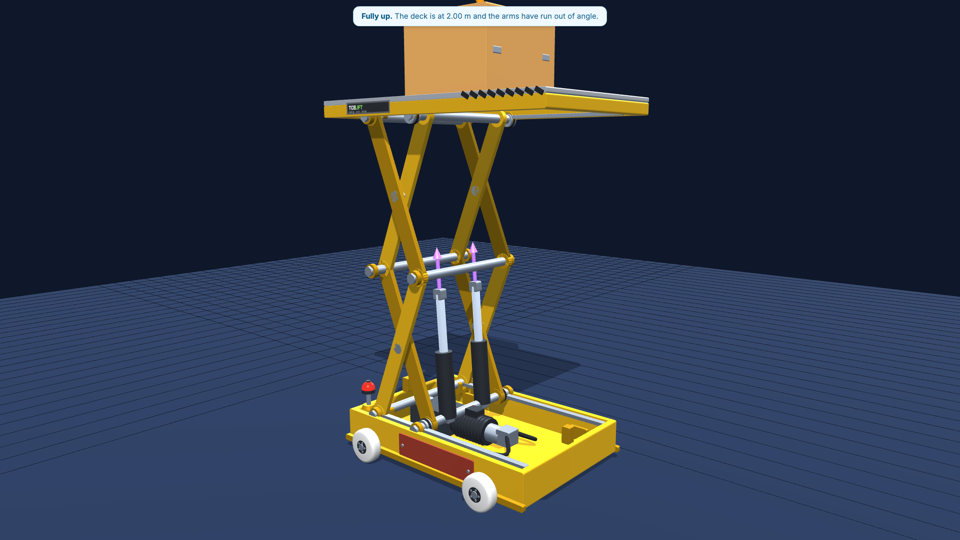
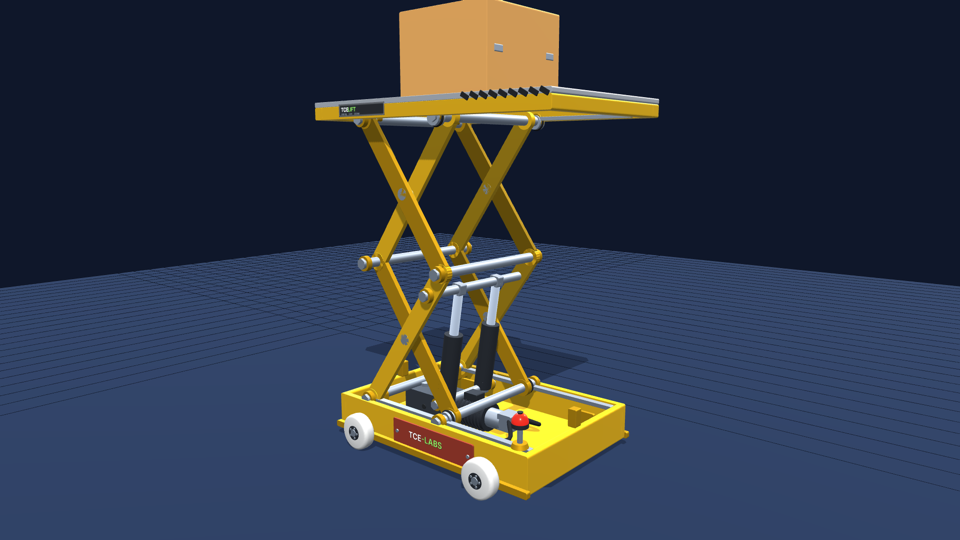
updated

Changed region(s): [[0.0, 0.0, 1.0, 0.9481], [0.1875, 0.5333, 0.2188, 0.563]]

diff --git a/scissorlift/app.js b/scissorlift/app.js
@@ -11,7 +11,10 @@ const G_ACC = 9.81;
 const ARM_L = 900;
 const STAGES = 2;
 const TH_MIN = 8 * Math.PI / 180;
-const TH_MAX = 68 * Math.PI / 180;
+// 54.752 deg puts the deck top at exactly 1.80 m. Any higher and the
+// machine is taller than its own wheelbase is long, which looks - and
+// is - top heavy.
+const TH_MAX = 54.752 * Math.PI / 180;
 
 // Where the rams are bolted on. RAM_P is measured along the base from
 // the fixed pivot, RAM_Q along the arm from the same pivot - so the ram,
@@ -32,8 +35,12 @@ const P = Object.assign({}, DEFAULTS);
 const state = {
     th: TH_MIN,                        // the one variable the machine has
     cmd: 0,                            // -1 lowering, 0 holding, +1 raising
-    crate: true, forces: true, sound: true, mesh: false, turntable: false,
+    // The arrows are a teaching overlay, not part of the machine, so
+    // they wait to be asked for.
+    crate: true, forces: false, sound: true, mesh: false, turntable: false,
     warn: 0,                           // seconds of warning still to sound
+    motion: 0,                         // 0..1, how much of full flow is actually moving
+    lastDir: 0,                        // which way it was going, for the run-down
     viewMode: 'blueprint'
 };
 
@@ -83,6 +90,14 @@ const deckSpeed = () => ramSpeed() * ratio(state.th);       // mm/s
 const LOWER_SPEED = 26;                                     // mm/s of ram, on the way down
 // How long the warning sounds before anything is allowed to move.
 const WARN_TIME = 1.3;
+// Nothing mechanical steps from still to full flow and back again. The
+// valve is eased open and shut and the motor takes a moment either way,
+// so the lift settles onto its stops instead of arriving at them - which
+// on a real machine is the difference between stopping and shock-loading
+// the linkage with a tonne on the deck.
+const RAMP_TIME = 0.5;                // seconds to spin up, and to run down
+const EASE_RAM = 30;                  // mm of ram travel eased at each end
+const EASE_FLOOR = 0.2;               // never quite zero, or it would never arrive
 
 const hydPower = () => pressure() * 1e5 * (P.flow / 60000); // W
 const motorPower = () => hydPower() / EFF;                  // W
@@ -193,7 +208,7 @@ function badgeTexture() {
     g.fillText('LIFT', 140, 58);
     g.fillStyle = '#aebdcc';
     g.font = '22px Inter, Helvetica, Arial, sans-serif';
-    g.fillText('2000 kg  \u00b7  2.0 m  \u00b7  250 bar', 34, 98);
+    g.fillText('2000 kg  \u00b7  1.8 m  \u00b7  250 bar', 34, 98);
     badgeTex = new THREE.CanvasTexture(c);
     return badgeTex;
 }
@@ -208,15 +223,11 @@ function logoTexture() {
     g.clearRect(0, 0, 720, 152);
     g.textBaseline = 'middle';
     g.font = 'bold 96px Inter, Helvetica, Arial, sans-serif';
-    g.fillStyle = 'rgba(24,16,4,0.5)';
-    g.fillText('TCE', 30, 82);
-    g.fillStyle = '#16181c';
-    g.fillText('TCE', 26, 78);
-    const w = g.measureText('TCE').width;
-    g.fillStyle = 'rgba(24,16,4,0.5)';
-    g.fillText('-LABS', 30 + w, 82);
-    g.fillStyle = '#7ed957';
-    g.fillText('-LABS', 26 + w, 78);
+    g.fillStyle = 'rgba(0,0,0,0.45)';
+    g.fillText('TCE-LAB', 30, 82);
+    g.fillStyle = '#b6b7b8';
+    g.fillText('TCE-LAB', 26, 78);
+    
     logoTex = new THREE.CanvasTexture(c);
     logoTex.anisotropy = 8;
     return logoTex;
@@ -381,8 +392,10 @@ function buildBase() {
             g.add(screw);
         });
 
-        const logo = new THREE.Mesh(new THREE.PlaneGeometry(360, 76), MAT.logo);
-        logo.position.set(-390, yMid + 6, s2 * (BASE_Z + 3));
+        // The name, on the panel and dead centre of the side - the one
+        // stretch of the machine that no wheel and no arm ever crosses.
+        const logo = new THREE.Mesh(new THREE.PlaneGeometry(340, 72), MAT.logo);
+        logo.position.set(60, yMid + 2, s2 * (BASE_Z + 8));
         logo.rotation.y = s2 > 0 ? 0 : Math.PI;
         g.add(logo);
 
@@ -869,7 +882,7 @@ function update3D() {
     // dark the moment it is holding. Two flashes a second, which is what
     // these actually run at.
     if (beaconLamp) {
-        const live = state.cmd !== 0 || state.warn > 0;
+        const live = state.cmd !== 0 || state.warn > 0 || state.motion > 0.05;
         const on = live && Math.sin(performance.now() / 1000 * Math.PI * 4) > 0;
         beaconLamp.material.emissiveIntensity = on ? 2.4 : 0.08;
         beaconLight.intensity = on ? 2.2 : 0;
@@ -943,41 +956,12 @@ function updateStats() {
     $('stat-h').textContent = heightM().toFixed(2);
     $('stat-f').textContent = (ramForce() / 1000).toFixed(0);
     $('stat-p').textContent = pressure().toFixed(0);
-    $('stat-v').textContent = (state.cmd > 0 && !stalled() ? deckSpeed()
-                             : state.cmd < 0 ? -LOWER_SPEED * ratio(state.th) : 0).toFixed(0);
-    $('stat-w').textContent = (state.cmd > 0 && !stalled() ? motorPower() / 1000 : 0).toFixed(1);
-    paintAlarm();
-}
-
-function paintAlarm() {
-    const el = $('alarm');
-    let title = '', body = '', cls = '';
-    if (tipping()) {
-        title = 'Going over.';
-        body = 'The load and the machine together now balance ' + Math.abs(cgX()).toFixed(0) +
-               ' mm off centre, and the wheels are only ' + WHEEL_X + ' mm out. Bring the load in.';
-        cls = 'bg-rose-50 border-rose-200 text-rose-800';
-    } else if (state.cmd > 0 && stalled()) {
-        title = 'Relief valve blowing off.';
-        body = 'It needs ' + pressure().toFixed(0) + ' bar and the valve opens at ' + P.relief +
-               '. The oil is going straight back to tank and the lift is not moving. It is worst ' +
-               'down here - try a wider bore, or less load.';
-        cls = 'bg-rose-50 border-rose-200 text-rose-800';
-    } else if (state.th >= TH_MAX - 1e-4) {
-        title = 'Fully up.';
-        body = 'The deck is at ' + heightM().toFixed(2) + ' m and the arms have run out of angle.';
-        cls = 'bg-sky-50 border-sky-200 text-sky-800';
-    } else if (state.th <= TH_MIN + 1e-4 && state.cmd === 0) {
-        title = 'Down and stowed.';
-        body = 'The arms are nearly flat, which is where the rams have the least to work with. ' +
-               'Watch the pressure as you start it up.';
-        cls = 'bg-slate-50 border-slate-200 text-slate-700';
-    }
-    if (!title) { el.classList.add('hidden'); return; }
-    el.className = 'absolute top-3 left-1/2 -translate-x-1/2 z-10 px-4 py-2 rounded-xl border shadow-md ' +
-        'text-[calc(13px*var(--fs))] text-center max-w-lg ' + cls;
-    $('alarm-title').textContent = title;
-    $('alarm-body').textContent = body;
+    const dir = state.cmd || (state.motion > 0 ? state.lastDir : 0);
+    $('stat-v').textContent = ((dir > 0 ? deckSpeed()
+                              : dir < 0 ? -LOWER_SPEED * ratio(state.th) : 0)
+                              * state.motion).toFixed(0);
+    $('stat-w').textContent = (state.cmd > 0 && stalled() ? motorPower() / 1000
+                              : dir > 0 ? motorPower() * state.motion / 1000 : 0).toFixed(1);
 }
 
 // =============================================================
@@ -1008,6 +992,7 @@ function oneShot(el, vol) {
 // Sounded the moment a direction is asked for, before any of it moves.
 function warnAndGo(dir) {
     state.cmd = dir;
+    state.lastDir = dir;
     state.warn = WARN_TIME;
     loopOff(aRaise); loopOff(aLower);
     oneShot(aBeep, 0.7);
@@ -1015,12 +1000,16 @@ function warnAndGo(dir) {
 
 function soundUpdate() {
     if (!aRaise) return;
-    const moving = state.sound && state.warn <= 0;
-    if (moving && state.cmd > 0 && !stalled()) {
-        // The note rides with the pressure the load is asking for.
-        loopOn(aRaise, 0.30 + 0.25 * clamp(pressure() / P.relief, 0, 1), 1);
+    // The sound follows state.motion, so it winds up with the pump and
+    // runs down with it, instead of being cut off at the stop.
+    const m = state.sound && state.warn <= 0 ? state.motion : 0;
+    const dir = state.cmd || state.lastDir;
+    const rate = 0.78 + 0.22 * m;
+    if (m > 0.02 && dir > 0) {
+        // and the note rides with the pressure the load is asking for
+        loopOn(aRaise, (0.30 + 0.25 * clamp(pressure() / P.relief, 0, 1)) * m, rate);
     } else loopOff(aRaise);
-    if (moving && state.cmd < 0) loopOn(aLower, 0.32, 1);
+    if (m > 0.02 && dir < 0) loopOn(aLower, 0.34 * m, rate);
     else loopOff(aLower);
 }
 function soundStop() {
@@ -1030,25 +1019,43 @@ function soundStop() {
 // =============================================================
 //  Loop
 // =============================================================
+// How much of full flow to allow, given how near the ram is to the end
+// of its own travel. Measured on the RAM rather than on the angle,
+// because the ram is the part moving at a steady rate - so the run-in
+// takes the same couple of seconds whether it is easing onto the top
+// stop or the bottom one, even though the deck speed differs tenfold.
+function endEase(dir) {
+    const sr = ramLen(state.th);
+    const room = dir > 0 ? (ramLen(TH_MAX) - sr) : (sr - ramLen(TH_MIN));
+    return EASE_FLOOR + (1 - EASE_FLOOR) * ease(room / EASE_RAM);
+}
+
 function step(dt) {
     // The warning runs first and the machine waits for it. This is the
     // order a real one does it in, and it is not decoration: people
     // stand next to these things.
-    if (state.warn > 0) { state.warn = Math.max(0, state.warn - dt); return; }
-    if (state.cmd > 0) {
-        // Past the relief setting the valve opens and the oil goes round
-        // in a circle. The motor works just as hard and nothing moves.
-        if (stalled()) return;
-        const dth = deckSpeed() * dt / (STAGES * ARM_L * Math.cos(state.th));
-        state.th = Math.min(TH_MAX, state.th + dth);
-        if (state.th >= TH_MAX) state.cmd = 0;
-    } else if (state.cmd < 0) {
-        // Coming down needs no pump at all: the load does the work and a
-        // valve only decides how fast it is allowed to give it back.
-        const dth = LOWER_SPEED * ratio(state.th) * dt / (STAGES * ARM_L * Math.cos(state.th));
-        state.th = Math.max(TH_MIN, state.th - dth);
-        if (state.th <= TH_MIN) state.cmd = 0;
+    if (state.warn > 0) {
+        state.warn = Math.max(0, state.warn - dt);
+        state.motion = 0;
+        return;
     }
+
+    // Past the relief setting the valve opens and the oil goes round in a
+    // circle. The motor works just as hard and nothing moves.
+    const blocked = state.cmd > 0 && stalled();
+    const want = (state.cmd !== 0 && !blocked) ? endEase(state.cmd) : 0;
+    state.motion += (want - state.motion) * Math.min(1, dt / RAMP_TIME);
+    if (state.motion < 0.001) state.motion = 0;
+    if (blocked || state.cmd === 0) return;
+
+    // Coming down needs no pump at all: the load does the work, and the
+    // valve only decides how fast it is allowed to give it back.
+    const dth = (state.cmd > 0 ? deckSpeed() : -LOWER_SPEED * ratio(state.th))
+                * state.motion * dt / (STAGES * ARM_L * Math.cos(state.th));
+    state.th = clamp(state.th + dth, TH_MIN, TH_MAX);
+    // The command drops out at the stop, and the motor runs itself down
+    // over the next half second rather than being switched off.
+    if (state.th >= TH_MAX || state.th <= TH_MIN) state.cmd = 0;
 }
 
 const DT = 1 / 120;
@@ -1071,6 +1078,7 @@ function frame(now) {
 function reset() {
     Object.assign(P, DEFAULTS);
     state.th = TH_MIN; state.cmd = 0; state.warn = 0;
+    state.motion = 0; state.lastDir = 0;
     soundStop();
     ['load', 'offset', 'bore', 'flow', 'relief'].forEach(k => {
         $('s-' + k).value = P[k];

diff --git a/scissorlift/index.html b/scissorlift/index.html
@@ -73,11 +73,6 @@
                     <p class="text-[calc(14px*var(--fs))] text-slate-600 max-w-md">This browser could not start 3D graphics (WebGL), so the lift cannot be drawn. The readings and controls below still work.</p>
                 </div>
 
-                <!-- Said out loud when the lift will not move, because a
-                     machine standing still looks the same whatever the reason. -->
-                <div id="alarm" class="hidden absolute top-3 left-1/2 -translate-x-1/2 z-10 px-4 py-2 rounded-xl border shadow-md text-[calc(13px*var(--fs))] text-center max-w-lg">
-                    <b id="alarm-title"></b> <span id="alarm-body" class="opacity-90"></span>
-                </div>
             </div>
 
             <div class="p-2 bg-slate-50/90 border-t border-slate-200 flex flex-col xl:flex-row gap-2">
@@ -158,8 +153,8 @@
                         <label id="chip-crate" class="flex items-center gap-1.5 px-2.5 py-2 rounded-full border border-slate-200 bg-white hover:bg-slate-50 text-slate-900 cursor-pointer transition text-[calc(13px*var(--fs))] font-medium select-none" title="Draw the load on the deck.">
                             <input id="chk-crate" type="checkbox" class="accent-slate-900" checked><span>Load</span>
                         </label>
-                        <label id="chip-forces" class="flex items-center gap-1.5 px-2.5 py-2 rounded-full border border-slate-200 bg-white hover:bg-slate-50 text-slate-900 cursor-pointer transition text-[calc(13px*var(--fs))] font-medium select-none" title="Draw the ram force and the weight as arrows, to the same scale.">
-                            <input id="chk-forces" type="checkbox" class="accent-slate-900" checked><span>Forces</span>
+                        <label id="chip-forces" class="flex items-center gap-1.5 px-2.5 py-2 rounded-full border border-slate-200 bg-white hover:bg-slate-50 text-slate-900 cursor-pointer transition text-[calc(13px*var(--fs))] font-medium select-none" title="Draw the ram push and the load weight as arrows. Off to begin with, since they are a teaching overlay and not part of the machine.">
+                            <input id="chk-forces" type="checkbox" class="accent-slate-900"><span>Forces</span>
                         </label>
                         <label id="chip-sound" class="flex items-center gap-1.5 px-2.5 py-2 rounded-full border border-slate-200 bg-white hover:bg-slate-50 text-slate-900 cursor-pointer transition text-[calc(13px*var(--fs))] font-medium select-none" title="The warning before it moves, then the pump on the way up and the oil on the way down.">
                             <input id="chk-sound" type="checkbox" class="accent-slate-900" checked><span>Sound</span>
@@ -211,7 +206,7 @@
                     <h3 class="font-bold text-slate-800 mb-1">2. The scissor: a mechanical advantage that keeps changing</h3>
                     <ul class="list-disc pl-5 space-y-1">
                         <li>Here is the thing that makes a scissor lift worth studying. Its mechanical advantage is not a number you can look up &mdash; it <b>changes all the way up the lift</b>, and it changes enormously.</li>
-                        <li>Watch the ram force as you raise it from the bottom. Near the floor the arms are almost flat, and holding the deck up takes something like <b>twenty times</b> the weight on it. By the top it is nearer twice. Same lift, same load, same rams.</li>
+                        <li>Watch the ram force as you raise it from the bottom. Near the floor the arms are almost flat, and holding the deck up takes something like <b>twenty times</b> the weight on it. By the top it is nearer three. Same lift, same load, same rams.</li>
                         <li>Why? Because at a shallow angle the ram is pushing almost <i>along</i> the arm rather than across it, and almost none of its push turns into a turning effect about the pivot. The useful part of a force is the part at right angles to the arm.</li>
                         <li>Now watch the <b>speed</b> at the same time. It bolts away from the floor and then crawls near the top. That is not a coincidence, and it is not the pump changing: it is the same trade, read the other way round.</li>
                         <li>Work it out with <b>work</b>. The ram does <span class="mono">F &times; s</span> and the load gains <span class="mono">W &times; h</span>, and those must be equal, so

diff --git a/demo.html b/demo.html
@@ -64,7 +64,7 @@
             grid-template-columns: repeat(auto-fit, minmax(272px, 1fr));
             gap: 18px;
         }
-
+        
         .card {
             background: var(--panel);
             
@@ -77,7 +77,37 @@
         }
         /* A hard offset block, not a blur: e-ink has no soft falloff */
         .card:hover { box-shadow: 5px 5px 0 var(--ink); }
-
+        .cardNumber{
+            font-family: -apple-system, BlinkMacSystemFont, 'Segoe UI', Roboto, Helvetica, Arial, sans-serif;
+    font-size: 20px;
+    font-weight: 700;
+    letter-spacing: .12em;
+    text-transform: uppercase;
+    /* position: relative; */
+    /* float: right; */
+    /* right: -50px; */
+    /* background: #c8c8c8; */
+    padding-left: 7px;
+    padding-top: 7px;
+    color: black;
+    /* width: 40px; */
+    text-align: center;
+    /* border-radius: 7px; */
+    display: flex;
+    align-content: flex-start;
+    align-items: center;
+        }
+        .cardNumberText{
+            background: #dadada;
+    width: 30px;
+    height: 30px;
+    line-height: 30px;
+    border-radius: 4px;
+    align-items: center;
+    color: white;
+    text-align: center;
+    font-size: 16px;
+        }
         .shot {
             display: block;
             width: 100%;
@@ -330,7 +360,9 @@
         function cardHTML(c) {
             const src = attr(c.src), ttl = attr(c.modalTitle || c.title);
             return '<article class="card">' +
-                     '<h2>' + c.title + '</h2>' +
+                    
+                    '<div class="cardNumber">'+'<div class="cardNumberText">'+c.cardNumer+ '</div>' + '<h2>' + c.title + '</h2>'+'</div>' +
+                    //  '<h2>' + c.title + '</h2>' +
                      '<button class="shot" data-src="' + src + '" data-title="' + ttl + '"' +
                              ' aria-label="Open ' + attr(c.title) + ' simulation">' +
                        '<img src="' + attr(c.thumb) + '" alt="' + attr(c.alt) + '">' +
@@ -342,12 +374,17 @@
                          '<button class="act primary" data-open="modal" data-src="' + src +
                                  '" data-title="' + ttl + '">Open in Modal</button>' +
                          '<button class="act" data-open="window" data-src="' + src + '">New Window</button>' +
+                         
                        '</div>' +
                      '</div>' +
                    '</article>';
         }
 
         function render(data) {
+            for(var i = 0; i < data.cards.length; i++) {
+                data.cards[i].cardNumer = i + 1;
+            }
+            console.log('demo.json', data);
             if (data.title) document.querySelector('header h1').textContent = data.title;
             if (data.subtitle) document.querySelector('header p').textContent = data.subtitle;
             grid.innerHTML = (data.cards || []).map(cardHTML).join('');
